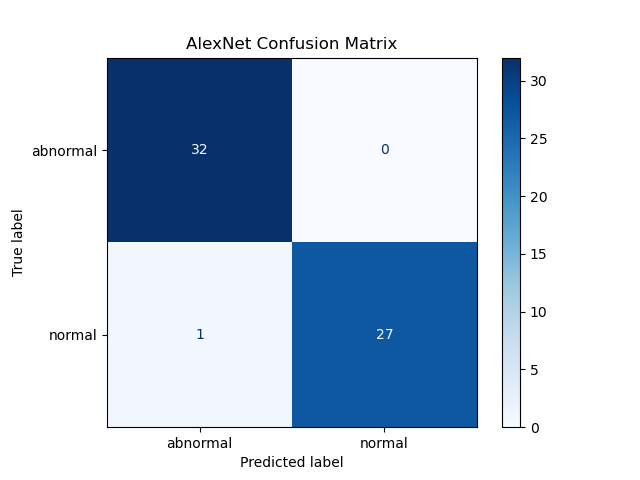
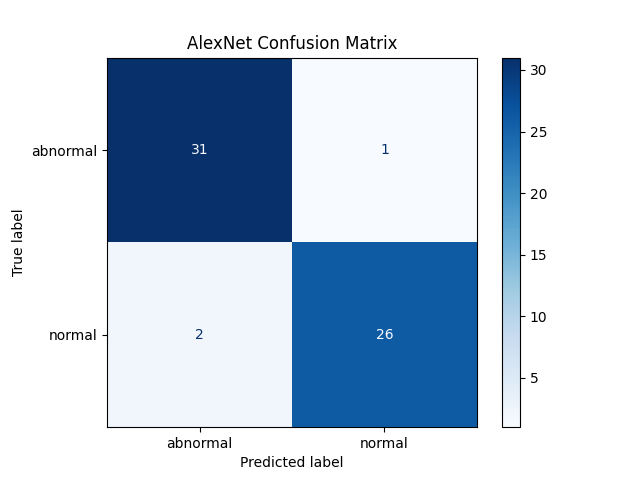
update

diff --git a/src/train.py b/src/train.py
@@ -1,27 +1,41 @@
 import numpy as np
 from torch import manual_seed
 import random
-from torchvision.transforms import Compose, ToTensor, ColorJitter, GaussianBlur, Normalize
+from torchvision.transforms import Compose, ToTensor, RandomRotation, RandomCrop, Resize, ElasticTransform, ColorJitter
 from torchvision.datasets import ImageFolder
 from torch.utils.data import random_split
-from torch.utils.data import Dataset, Subset, ConcatDataset, DataLoader
+from torch.utils.data import Dataset, ConcatDataset, DataLoader
 from torch import load
 import matplotlib.pyplot as plt
 from alexnet_pretrained import AlexNet
+from sklearn.metrics import confusion_matrix, ConfusionMatrixDisplay
 
-class DatasetFromSubset(Dataset):
-    def __init__(self, subset, transform=None):
-        self.subset = subset
+# Set seeds
+np.random.seed(42)
+manual_seed(42)
+random.seed(42)
+
+class CustomDataset(Dataset):
+    def __init__(self, dataset, transform=None):
+        self.dataset = dataset
         self.transform = transform
 
     def __getitem__(self, index):
-        x, y = self.subset[index]
+        x, y = self.dataset[index]
         if self.transform:
             x = self.transform(x)
         return x, y
 
     def __len__(self):
-        return len(self.subset)
+        return len(self.dataset)
+    
+def data_augmentation(subset, transforms):
+    datasets = [subset]
+
+    for transform in transforms:
+        datasets.append(CustomDataset(subset, transform))
+
+    return ConcatDataset(datasets)
 
 def plot_img(image, label=None):
     plt.imshow(image.permute((1, 2, 0)), cmap='gray')
@@ -32,68 +46,58 @@ def plot_img(image, label=None):
         plt.title(f'Image in Tensor format | Class: {label}')
     plt.show()
 
-np.random.seed(42)
-manual_seed(42)
-random.seed(42)
+def dist(datasets, names, classes):
+    for dataset, name in zip(datasets, names):
+        labels = [label for _, label in dataset]
 
-data_root = 'src/data/harvard'
+        print(name)
+        print(f"\tClass: {classes[0]} | Count: {labels.count(0)}")
+        print(f"\tClass: {classes[1]} | Count: {labels.count(1)}")
 
-dataset_mean = (0.1338, 0.1338, 0.1338)
-dataset_std = (0.2054, 0.2054, 0.2054)
+def score(model):
+    y_pred = []
+    y_true = []
+    for image, label in test_dataset:
+        pred = model.predict(image)
+        y_pred.append(pred)
+        y_true.append(label)
 
-dataset = ImageFolder(root=data_root, transform=Compose([ToTensor()]))
+    cm = confusion_matrix(y_true=y_true, y_pred=y_pred, labels=[0,1])
+    disp = ConfusionMatrixDisplay(confusion_matrix=cm,
+                                    display_labels=dataset.classes)
 
+    disp.plot(cmap='Blues')
+    plt.title('AlexNet Confusion Matrix')
+    plt.show()
+
+DATA_ROOT = 'src/data/harvard/'
+
+BATCH_SIZE = 64
+EPOCHS = 40
+LR = 1e-3
+
+dataset = ImageFolder(root=DATA_ROOT, transform=ToTensor())
 train_subset, test_subset = random_split(dataset, [0.6, 0.4])
 
-train_dataset = DatasetFromSubset(
-    subset=train_subset,
-    transform=Normalize(mean=dataset_mean, std=dataset_std)
-)
+transforms = [
+    RandomRotation(degrees=(-15, 15)),
+    Compose([RandomCrop(size=(200, 200)), Resize(size=(256,256))]),
+    ElasticTransform(alpha=50.0)
+]
 
-test_dataset = DatasetFromSubset(
-    subset=test_subset,
-    transform=Normalize(mean=dataset_mean, std=dataset_std)
-)
-
-jitter_subset = Subset(dataset, train_subset.indices)
-train_jitter = DatasetFromSubset(
-    subset=jitter_subset,
-    transform=Compose([ColorJitter(brightness=.3, hue=.3), Normalize(mean=dataset_mean, std=dataset_std)])
-)
-
-train_dataset = ConcatDataset([train_dataset, train_jitter])
-
-for s_dataset in [train_dataset, test_dataset]:
-    labels = [label for image, label in s_dataset]
-
-    print(f"Class: {dataset.classes[0]} | Count: {labels.count(0)}")
-    print(f"Class: {dataset.classes[1]} | Count: {labels.count(1)}")
+train_dataset = data_augmentation(train_subset, transforms)
+test_dataset = CustomDataset(test_subset)
 
 train_loader = DataLoader(train_dataset,
-                        batch_size=32,
+                        batch_size=BATCH_SIZE,
                         shuffle=True)
 test_loader = DataLoader(test_dataset,
-                        batch_size=32,
+                        batch_size=BATCH_SIZE,
                         shuffle=False)
 
 model = AlexNet()
-# model.fit(train_loader=train_loader, test_loader=test_loader, epochs=15, lr=1e-3, debug=True)
+model.fit(train_loader=train_loader, eval_loader=test_loader, epochs=EPOCHS, lr=LR, debug=True)
 
-model.load_state_dict(load('src/models/best_model.pt'))
+score(model)
 
-preds = []
-y = []
-for image, label in test_dataset:
-    pred = model.predict(image)
-    preds.append(pred)
-    y.append(label)
-
-from sklearn.metrics import confusion_matrix, ConfusionMatrixDisplay
-
-cm = confusion_matrix(y_true=y, y_pred=preds, labels=[0,1])
-disp = ConfusionMatrixDisplay(confusion_matrix=cm,
-                              display_labels=dataset.classes)
-
-disp.plot(cmap='Blues')
-plt.title('AlexNet Confusion Matrix')
-plt.show()
+dist([train_dataset, test_dataset], ['Train', 'Test'], dataset.classes)

diff --git a/src/alexnet_pretrained.py b/src/alexnet_pretrained.py
@@ -34,7 +34,7 @@ class AlexNet(Module):
     def foward(self, x):
         return self.model(x)
 
-    def fit(self, train_loader, test_loader=None, epochs=10, lr=1e-3, file_path='src/models/best_model.pt', debug=False):
+    def fit(self, train_loader, eval_loader=None, epochs=10, lr=1e-3, file_path='src/models/best_model.pt', debug=False):
         optimizer = SGD(self.parameters(), lr=lr)
         criterion = BCELoss()
 
@@ -69,8 +69,8 @@ class AlexNet(Module):
 
             train_accuracies.append(100 * (n_corrects/n_total))
             
-            if test_loader is not None:
-                accuracy = self.validate(test_loader)
+            if eval_loader is not None:
+                accuracy = self.validate(eval_loader)
 
                 test_accuracies.append(accuracy)
 
